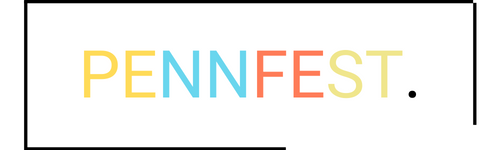
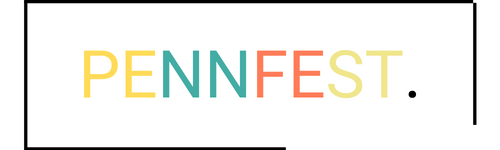
feat: placeholder image in home body.

Changed region(s): [[0.3, 0.32, 0.51, 0.6667]]

diff --git a/assets/css/style.css b/assets/css/style.css
@@ -7,7 +7,7 @@
 }
 
 .ui-menu-color-info {
-    background-color: #69d6ee;
+    background-color: #43ada5;
 }
 
 .ui-menu-color-tickets {
@@ -43,7 +43,7 @@ header {
 
 #nav li {
     font-size: 25px;
-    padding: 0;
+    padding: 0 0 0 125px;
     margin-top: 100px;
     color: white;
 }
@@ -58,3 +58,5 @@ a:hover {
     color: #222221;
     text-decoration: underline;
 }
+
+/* main homepage body */

diff --git a/index.html b/index.html
@@ -43,6 +43,11 @@
     </header>
     <hr>
     <section>
+        <div>
+            <image src="assets/images/pennfest-poster.png">
+                
+            </image>
+        </div>
 
     </section>
     <footer>
